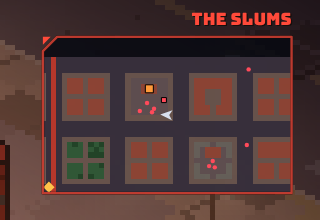
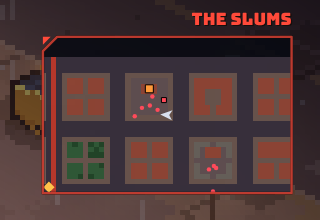
Circle warnings: a thin blinking outline with a shadow growing at the centre, no filled area
Claude-Session: https://claude.ai/code/session_01TQrqJid8SEs5fJFtrpg3VS

diff --git a/test/soak.js b/test/soak.js
@@ -32,7 +32,7 @@ const { open } = require('./tour_lib');
         if (e.dead) continue;
         if (!isFinite(e.x) || !isFinite(e.y) || !isFinite(e.vx) || !isFinite(e.vy)) { note(e.kind + ' with a non-number position'); continue; }
         if (e.x < -30 || e.y < -30 || e.x > WORLD_W + 30 || e.y > WORLD_H + 30) note(e.kind + ' outside the world');
-        if (e.kind === 'hideout' || e.kind === 'tower' || e.held || e.bossHeld || (e.z || 0) > 3) { stuckFor.delete(e); continue; }
+        if (e.kind === 'hideout' || e.kind === 'tower' || e.kind === 'fixer' || e.held || e.bossHeld || (e.z || 0) > 3) { stuckFor.delete(e); continue; }   // repair drones fly over the roofs on purpose
         if (!walkable(e.x, e.y, 1)) { const n = (stuckFor.get(e) || 0) + 1; stuckFor.set(e, n); if (n === 4) { note(e.kind + ' stuck inside a wall for 4 s'); if (stuckLog.length < 8) stuckLog.push(e.kind + (e.driving ? ' (driving)' : '') + (e.state ? ' ' + e.state : '') + ' at ' + Math.round(e.x) + ',' + Math.round(e.y) + ' tile ' + tileOf(e.x, e.y) + ' block ' + ((blockAt(e.x, e.y) || {}).kind)); } } else stuckFor.delete(e);
       }
       if (P.holding && P.holding.dead) note('holding a dead object');

diff --git a/dist/gravitation.html b/dist/gravitation.html
@@ -7113,8 +7113,11 @@ function drawWarns() {
   for (const w of warns) {
     const k = 1 - w.life / w.max, blink = Math.sin(G.time * 30) > 0, col = w.col;
     if (w.k === 'circle') {
-      ctx.globalAlpha = .18 + .2 * k; gDither(w.x, w.y, w.r, col);
-      ctx.globalAlpha = blink ? 1 : .6; gRing(w.x, w.y, w.r, col); gRing(w.x, w.y, w.r * k, mix(col, '#ffffff', .4));
+      // no filled area on the ground: just a thin outline of the reach, blinking faster as the attack lands; a small
+      // dark spot grows at the centre (like the shadow of something about to arrive)
+      const fast = k > .7 ? Math.sin(G.time * 60) > 0 : blink;
+      ctx.globalAlpha = fast ? .8 : .4; gRing(w.x, w.y, w.r, col);
+      ctx.globalAlpha = .18 + .3 * k; gDisc(w.x, w.y, Math.max(2, w.r * .22 * k), '#000000');
     } else {
       // a thin laser-pointer line from the attacker, not a band on the ground (the user finds big floor markings gaudy).
       // It draws out from the attacker as the wind-up runs and blinks faster just before the attack.

diff --git a/src/js/11e_fx.js b/src/js/11e_fx.js
@@ -60,8 +60,11 @@ function drawWarns() {
   for (const w of warns) {
     const k = 1 - w.life / w.max, blink = Math.sin(G.time * 30) > 0, col = w.col;
     if (w.k === 'circle') {
-      ctx.globalAlpha = .18 + .2 * k; gDither(w.x, w.y, w.r, col);
-      ctx.globalAlpha = blink ? 1 : .6; gRing(w.x, w.y, w.r, col); gRing(w.x, w.y, w.r * k, mix(col, '#ffffff', .4));
+      // no filled area on the ground: just a thin outline of the reach, blinking faster as the attack lands; a small
+      // dark spot grows at the centre (like the shadow of something about to arrive)
+      const fast = k > .7 ? Math.sin(G.time * 60) > 0 : blink;
+      ctx.globalAlpha = fast ? .8 : .4; gRing(w.x, w.y, w.r, col);
+      ctx.globalAlpha = .18 + .3 * k; gDisc(w.x, w.y, Math.max(2, w.r * .22 * k), '#000000');
     } else {
       // a thin laser-pointer line from the attacker, not a band on the ground (the user finds big floor markings gaudy).
       // It draws out from the attacker as the wind-up runs and blinks faster just before the attack.

diff --git a/HANDOFF.md b/HANDOFF.md
@@ -35,7 +35,7 @@ A prototype of a top-down superhero/supervillain game inspired by inFamous, GTA 
 - **The world's flavour (the user's own description, 2026-11-27; keep to it):** a down-to-earth near future, "solarpunk mixed with dystopian capitalism". Capitalism lasted long enough to make technology powerful enough to fill some of its own holes: people build their own software and hardware with AI help, wire up their own solar panels and grow their own food, and survive what was a slow apocalypse of sorts, yet the city is still a pretty cool place to live. Keep the ordinary modern city look; tech can be strange and inventive (lasers, AI, drones, e.g. solar-panelled drones that shoot electricity), but **never pink/purple/blue neon cyberpunk**. The red laser barricade is fine. Good source of new enemies and environmental hazards.
 - **Machines and hazards (09c_machines.js, drawn in 11k_machines.js), first batch made on the user's free-roam brief; awaiting their picks:** solar street sweepers (team `bot`, harmless, drop energy), spark drones (`zapper`, hover over car parks, telegraphed lightning bolt), repo crawlers (`crawler`, run at you and burst), sentry posts (`sentry`, static turret by each hideout gate, does not hold the gate), loader mechs (`loader`, heavy walker outside each yard, fights like a brute), mites (`mite`, tiny swarm drones; not placed in the world yet), battery banks (`cell`, throwable, burst with electricity and chain), downed power lines (`hazards`, arc on a cycle, hurt anything but civilians). Batch 2: mite hives (`hive`, static, in overgrown parks, release up to 6 mites while you are near), scanner drones (`scanner`, patrol; when the cone fills on you every gang member and machine within 420 px comes for you), heliostats (`mirror`, static, round courts and the Tower plaza; by day and at sunset they track you with a sun-spot that burns once it heats up; idle at night). Batch 3 (fight tools): racks of spare solar panels (`panels`, static prop in car parks, yards and by hideouts; break them and glass shards cut everything within 90 px), street water tanks (`wtank`, in parks, yards and courts; burst one and it floods 70 px for 18 s: ground machines in the water short out, and any electricity reaching the water (battery or crawler burst, a live power line) hits everyone standing in it, you included), rogue couriers (`courier`, high-flying delivery drones that mark a spot on you and drop an explosive parcel; one in Ground Zero, more later). Street furniture and delivery drones: `11l_street_life.js`. Friendly machines (team `bot`): walking vending robots (`vendbot`; people stop at them; stand next to one and it hands you a drink = energy, every 25 s) and repair drones (`fixer`; fly over the roofs to downed power lines and make them safe for 60 s, otherwise tend the charging posts). Electricity is pale yellow-white. `node test/machines.js`. **Every new object must be drawn in the same isometric projection as the props (oriented `pixBox` boxes via `propFrame`, or `isoXY` shapes), never as a flat front-on sprite.** The user rejected the first, flat version of these machines for exactly that ("we went through all of this before").
 - **People have roles** (`09d_people.js`, the user asked for the street to feel alive, not background noise). Walkers streamed in as before but as commuter / stroller / jogger / gawker, each with its own pace and habits; anyone may stop to chat with someone passing, listen to a busker or queue at a food cart. Placed people who stay at their spot: buskers (music notes, coins in the case), food-cart vendors (an iso cart with a striped awning), gardeners at planters, tinkerers at charging posts, kids chasing each other in parks. Gawkers film explosions instead of running. Small speech bubbles show what they are doing. How easily each one panics varies (`roleFear`). Behaviour only: no sprite changes.
-- **Attack tells (user's rule):** the player should lose to a choreographed attack they misread, never to being swarmed. Every attack has a tell, and `takeTurn` (09_ai.js) lets only 2 enemies wind up an attack on you at once (bosses exempt). **The user dislikes big warning shapes on the ground** ("gaudy"): line warnings are drawn as a thin laser-pointer line from the attacker (`drawWarns` in 11e_fx.js); keep tells on the enemy and as thin lines, not floor bands.
+- **Attack tells (user's rule):** the player should lose to a choreographed attack they misread, never to being swarmed. Every attack has a tell, and `takeTurn` (09_ai.js) lets only 2 enemies wind up an attack on you at once (bosses exempt). **The user dislikes big warning shapes on the ground** ("gaudy"): line warnings are drawn as a thin laser-pointer line from the attacker (`drawWarns` in 11e_fx.js); circle warnings are only a thin blinking outline with a small shadow growing at the centre, no filled area; keep tells on the enemy and as thin lines, not floor bands.
 - **Signed off by the user (2026-11-27):** current enemies are fine as placeholders for now; the music, sound effects and soundtrack are fine.
 - **Times of day** (`04b_times.js`): `sunset`, `night` and `day`, each ONLY colours and light (the user was explicit: no sprite or drawing changes). `applyTime(name)` repaints district palettes and each building's wall, roof and window colours, sets the light levels in `LIGHT` (glow, light pools, lamps lit, wash, how green, how light the water) and clears the cached pictures. The user wants to keep all three and use them per story section later. For now it is a setting (Settings → Display → Time of day, `SETTINGS.time`, default sunset, my pick) and `KC.time(name)`. Signs keep their shapes but are painted shop colours (`NEON_GOOD`/`NEON_EVIL` in 04_world.js keep their old names); roof trims are off. `node test/times.js`.
 - **Weather** (`WEATHER` in 04b_times.js): the user wants a rainy city where rain is real weather, not decoration: showers come and go by themselves at any time of day (showers 70–160 s, dry spells 50–110 s, wet about 60% of the time, 6 s fade). Rain streaks, splashes, the rain sound, an overcast wash by day and **umbrellas** all follow `WEATHER.rain`; the user asked for extra care that nobody carries an umbrella when it is dry. `setWeather('rain'|'dry'|'auto')` / `KC.weather(...)` for the story and tests.
